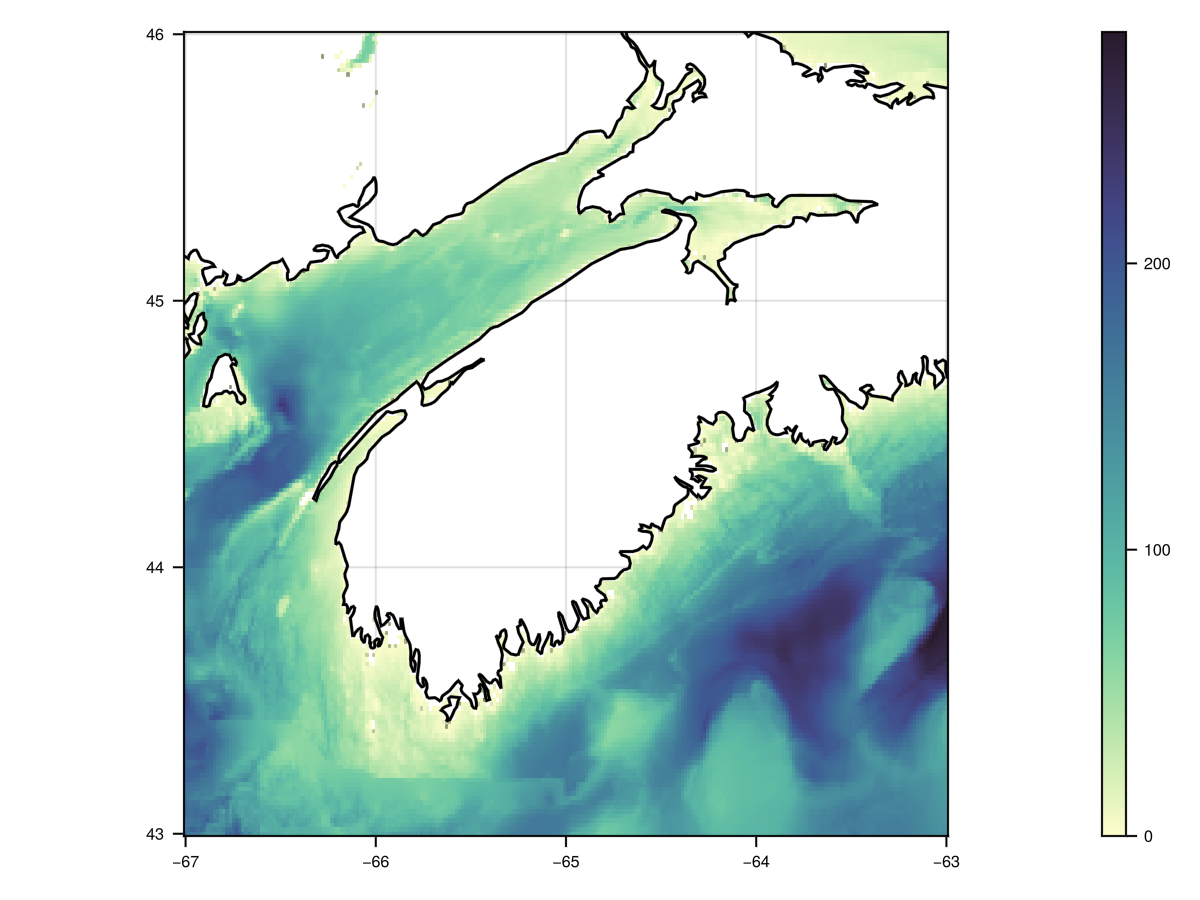
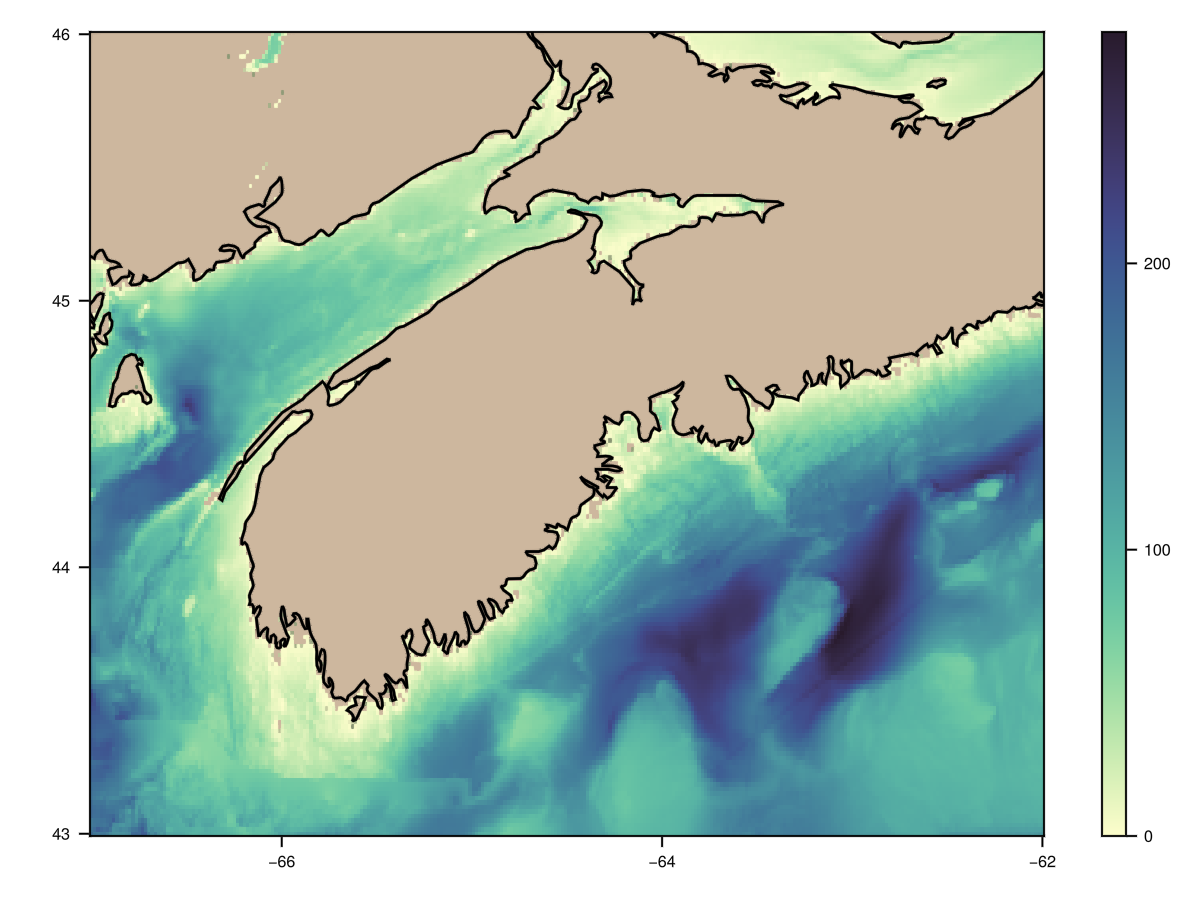
plot_topography() obeys land_color and sea_color

diff --git a/docs/src/examples.md b/docs/src/examples.md
@@ -54,7 +54,7 @@ fig = plot_amsr(sst; xlims=(275.0, 350.0),
     title="Sea-surface Temperature [°C] with 1-km isobath");
 # Add 1-km isobath. Note the transposition of the data (for Makie)
 # and the redrawing, to handle the fact that AMSR has 0<=lon<=360
-# whereas topograph has -180<=lon<=180.
+# whereas topography has -180<=lon<=180.
 ax = fig[1, 1]
 tf = get_topography()
 t = read_topography(tf);
@@ -254,17 +254,25 @@ Nova Scotia, and displays the data in three plot styles.
 **FIXME: update when converted to Makie plotting.**
 
 ```julia
-using OceanAnalysis, Plots, TiffImages
-topo_file = get_topography(-67, -63, 43, 46, resolution=1)
+using OceanAnalysis, GLMakie
+topo_file = get_topography(-67, -62, 43, 46, resolution=1)
 topo = read_topography(topo_file);
-p1 = plot_topography(topo, domain=:both);
-p2 = plot_topography(topo, domain=:sea);
-p3 = plot_topography(topo, domain=:land);
-plot(p1, p2, p3, layout=(1, 3), size=(800, 200), dpi=200)
-savefig("topography.png")
+
+# Single panel
+fig = plot_topography(topo) # domain defaults to :land_and_sea
+save("topography_1.png", fig, px_per_unit=2)
+
+# Multiple panels
+fig = Figure(size=(800, 200))
+plot_topography!(fig[1, 1], topo, domain=:land_and_sea) # same as above
+plot_topography!(fig[1, 2], topo, domain=:sea)
+plot_topography!(fig[1, 3], topo, domain=:land)
+save("topography_2.png", fig, px_per_unit=2)
 ```
 
-![Topography diagram](topography.png)
+![Topography diagram](topography_1.png)
+
+![Topography diagram](topography_2.png)
 
 
 ## Coastline Data
